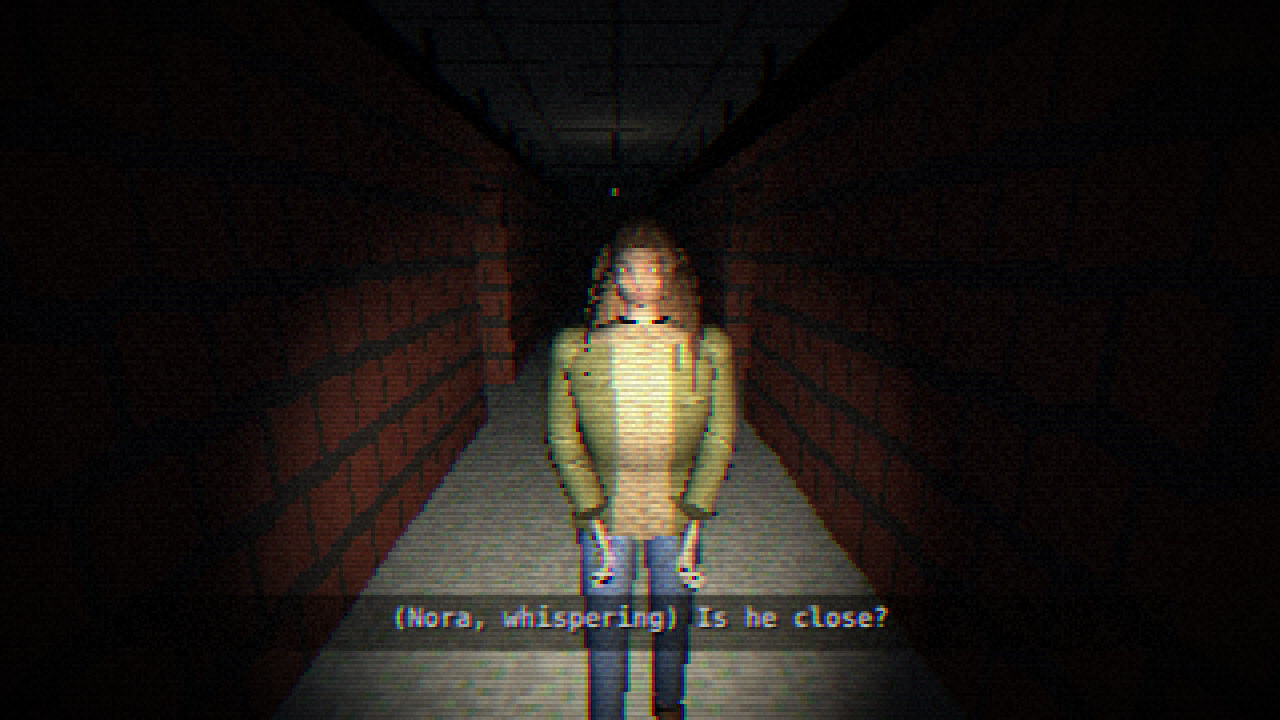
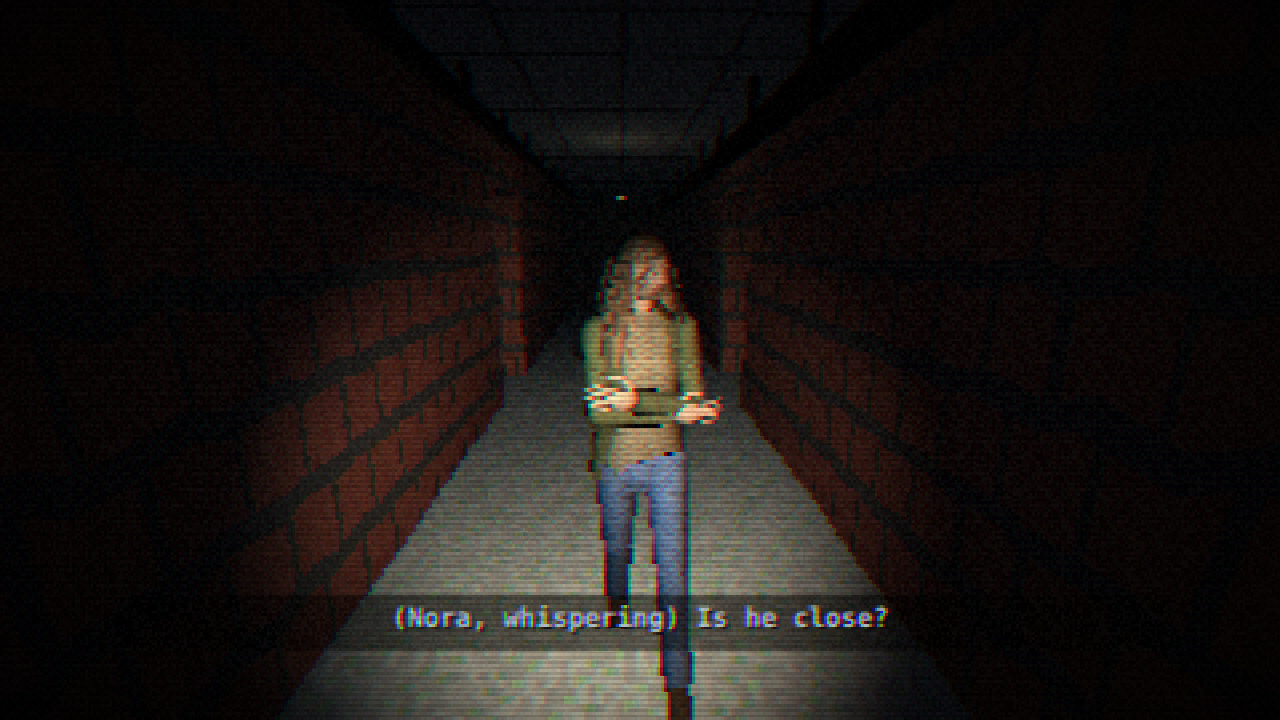
0.2.109: Nora on her feet, third pass: a jointed standing body
The owner found the second pass still boxy, its arms and hands wrong,
stiff, and short in the leg. Nora's standing figure is now built standing
rather than stood up from the table: a jointed body (hips, knees, ankles;
shoulders, elbows, wrists; neck, head) with an ordinary woman's
proportions, long legs, a waist, soft sloping shoulders, fuller jeans over
ankle boots, and the waxed jacket fitted and hanging open with its
collar. Her arms are placed by where her hands go (a two-bone reach) and
her poses live in src/props/noraPoses.js: following you mid-step and
hugging herself as she glances back; easy on one leg by the window. Her
hair hangs from her head as she holds it. The table figure is back to
its approved form. Stills nora_follow and ending_morning re-shot.

Claude-Session: https://claude.ai/code/session_01Kt2ajWcwzg7QhP3mDk3ZUu

diff --git a/src/props/noraStanding.js b/src/props/noraStanding.js
@@ -1,128 +1,176 @@
-// Nora Kane on her feet (0.5, part C; proposal still nora_follow, not in the
-// game until the owner approves it): freed from the table, she follows you
-// out. The same woman as on the table (nora.js: her waxed jacket, knitted
-// jumper, jeans and boots; noraHead.js, noraHair.js), stood up: her body is
-// built as it lies on the table and turned upright, her hair hangs to her
-// shoulders. Owner 2026-11-19, first pass: redo her. Not a mannequin
-// standing to attention: her shoulders slope and are rounded, she stoops a
-// little at the waist, afraid, her head a little down, her elbows in at her
-// sides and her hands held in front of her, and her colours darker so your
-// flashlight does not burn her jacket yellow. Her legs and arms swing from
-// her hips and shoulders (userData.limbs) so she can walk; `stride` (-1..1)
-// poses one step, `turn` turns her head, `hunch` (radians) stoops her.
-// Origin on the floor between her feet; she faces +z.
+// Nora Kane on her feet (0.5, part C; proposal stills nora_follow and
+// ending_morning, not in the game until the owner approves them). The same
+// woman as on the table (nora.js: her waxed jacket, knitted jumper, jeans and
+// boots; noraHead.js, noraHair.js), stood up. Owner 2026-11-19, second pass:
+// still boxy, her arms and hands wrong, stiff as a statue, her legs short.
+// So she is built standing, as a jointed body: an ordinary woman of 1.66 m,
+// long in the leg, a waist, soft sloping shoulders, the jacket fitted and
+// hanging open; her arms placed by where her hands go (hugging herself, one
+// hand on the other elbow, or loose at her side); her weight on one leg, or
+// mid-step, her head turned. The joints (userData.joints) let the game walk her.
+// Origin on the floor; she faces +z.
 import * as THREE from 'three';
 import { materialFor } from './parts.js';
 import { sweepGeometry, handGroup } from './sculpt.js';
 import { noraHead } from './noraHead.js';
 import { hairHanging } from './noraHair.js';
-import { noraTextures, torso, mesh } from './nora.js';
+import { noraTextures, mesh } from './nora.js';
+import { POSES } from './noraPoses.js';
 
 const v = (...p) => new THREE.Vector3(...p);
-const HIPS = 0.86; // metres from the floor to her hips: about 1.65 m to the top of her head
-const LEG_SWING = 0.35; // radians at a full stride
-const ARM_SWING = 0.12; // her arms held in: they hardly swing
+const THIGH = 0.41;
+const SHIN = 0.4;
+const ANKLE = 0.07; // ankle to sole: hip joints 0.88 m up when she stands straight
+const UPPER_ARM = 0.28;
+const FOREARM = 0.24;
+const SHOULDER = v(0.152, 0.435, -0.012); // in her torso (x: her left)
 // In your flashlight, not under his lamp: her colours darker so they hold
-// (her waxed jacket most, or it burns yellow; her face and hair, or they
-// burn white in the middle of your beam; her pale jumper next).
+// (her waxed jacket and pale jumper most; her skin and hair, or they burn white).
 const SHADE = 0.58;
-const FACE_SHADE = 0.4;
-const SHADE_OF = (tex) => new Map([[tex.jacket, 0.4], [tex.jumper, 0.36]]);
-const BEND = 1.0; // radians her forearms come up from hanging: her hands in front of her
+const SKIN_SHADE = 0.4;
+const SHADE_OF = (tex) => new Map([[tex.jacket, 0.4], [tex.jumper, 0.36], [tex.neck, SKIN_SHADE], [tex.hands, SKIN_SHADE]]);
 
-// Built as on the table (her front +y, her head -z, her feet +z), then stood
-// up by the group that holds it. A limb swings from `pivot` about the body's x.
-function limb(pivot, ...parts) {
-  const group = new THREE.Group();
-  group.position.copy(pivot);
-  group.add(...parts);
+const joint = (x, y, z, ...parts) => {
+  const group = new THREE.Group().add(...parts);
+  group.position.set(x, y, z);
   return group;
+};
+const ball = (r, texture) => mesh(new THREE.SphereGeometry(r, 10, 8), texture);
+
+// Down a limb from its joint: a sweep along -y; `sections` [side, front] at even steps.
+function segment(length, sections, texture, bulge = []) {
+  const points = sections.map((_, i) => v(0, (-length * i) / (sections.length - 1), bulge[i] ?? 0));
+  return mesh(sweepGeometry(points, sections, { radial: 10, steps: 3, front: [0, 0, 1] }), texture);
 }
 
-// A leg from the hip down, straight, the boot square to it (toes forward).
+// Her body from the hips up, in the torso's frame (its origin 4 cm above the hip joints).
+function torsoMeshes(tex) {
+  const spine = [[-0.07, -0.015], [0.02, -0.01], [0.12, -0.005], [0.22, 0.005], [0.3, 0.01], [0.38, -0.002], [0.45, -0.015], [0.5, -0.012]].map(([y, z]) => v(0, y, z));
+  const jumper = [[0.165, 0.112], [0.152, 0.102], [0.124, 0.086], [0.132, 0.095], [0.138, 0.106], [0.141, 0.09], [0.13, 0.068], [0.058, 0.05]];
+  const jacket = [[0.18, 0.126], [0.166, 0.116], [0.143, 0.104], [0.148, 0.11], [0.154, 0.12], [0.156, 0.1], [0.142, 0.078], [0.07, 0.06]];
+  const open = [1.9, 1.75, 1.5, 1.25, 1.05, 0.95, 1.0, 1.2]; // the jacket hangs open, wider towards its hem
+  const wool = (theta, u) => 1 + 0.02 * Math.sin(theta * 8 + u * 9) + 0.012 * Math.sin(theta * 13 - u * 17);
+  const hang = (theta, u) => 1 + 0.03 * Math.sin(theta * 6 + u * 7);
+  const hem = v(0, -0.1, -0.02); // the jacket comes down over her hips
+  return [
+    mesh(sweepGeometry(spine, jumper, { radial: 20, steps: 4, front: [0, 0, 1], shape: wool }), tex.jumper),
+    mesh(sweepGeometry([hem, ...spine.slice(1)], [[0.182, 0.13], ...jacket.slice(1)], { radial: 22, steps: 4, front: [0, 0, 1], gap: open, shape: hang }), tex.jacket, { side: THREE.DoubleSide }),
+    mesh(sweepGeometry([[-0.088, 0.455, 0.03], [-0.078, 0.488, -0.035], [0, 0.505, -0.068], [0.078, 0.488, -0.035], [0.088, 0.455, 0.03]], [0.016, 0.02, 0.02, 0.02, 0.016], { radial: 6, steps: 3, front: [0, 1, 0] }), tex.leather, { color: '#8a6a50' }), // the corduroy collar
+  ];
+}
+
+// From the hip joint down: a straight-leg jean over an ankle boot.
 function leg(tex, side) {
-  const x = side * 0.09;
-  const jeans = mesh(sweepGeometry([[0, 0, 0], [side * 0.005, 0.004, 0.41], [side * 0.01, -0.02, 0.76]], [[0.09, 0.08], 0.062, 0.05], { radial: 10, steps: 4, front: [0, 1, 0] }), tex.jeans);
-  const boot = mesh(sweepGeometry([[side * 0.01, -0.015, 0.74], [side * 0.01, -0.03, 0.81], [side * 0.01, 0.06, 0.84], [side * 0.01, 0.14, 0.82]], [0.052, 0.05, 0.045, 0.03], { radial: 8, steps: 3, front: [0, 0, 1] }), tex.boots);
-  return limb(v(x, 0.09, -0.01), jeans, boot);
+  const thigh = segment(THIGH, [[0.088, 0.091], [0.072, 0.075], [0.059, 0.061]], tex.jeans, [0, 0.008, 0]);
+  const shin = segment(SHIN, [[0.059, 0.061], [0.058, 0.061], [0.053, 0.055], [0.055, 0.057]], tex.jeans, [0, -0.006, 0, 0]);
+  const shaft = mesh(sweepGeometry([v(0, 0.06, -0.008), v(0, -0.045, -0.014)], [[0.043, 0.048], [0.042, 0.05]], { radial: 10, steps: 2, front: [0, 0, 1] }), tex.boots);
+  const foot = mesh(sweepGeometry([v(0, -0.044, -0.06), v(0, -0.048, 0.03), v(0, -0.048, 0.11), v(0, -0.046, 0.155)], [[0.04, 0.026], [0.044, 0.024], [0.04, 0.022], [0.028, 0.018]], { radial: 10, steps: 3, front: [0, 1, 0] }), tex.boots);
+  const ankle = joint(0, -SHIN, 0, shaft, foot);
+  const knee = joint(0, -THIGH, 0, ball(0.059, tex.jeans), shin, ankle);
+  const hip = joint(side * 0.085, 0, 0, thigh, knee);
+  return { hip, knee, ankle };
 }
 
-// An arm from the shoulder in its sleeve, the elbow in at her side, the
-// forearm come up and in so her hand is held in front of her stomach.
+// From the shoulder: a jacket sleeve to the elbow and on to the cuff, a hand.
 function arm(tex, side) {
-  const shoulder = v(side * 0.165, 0.1, -0.49);
-  const elbow = v(side * 0.035, -0.01, 0.245);
-  const across = v(-side * 0.35, Math.sin(BEND) * 0.9, Math.cos(BEND)).normalize();
-  const wrist = elbow.clone().addScaledVector(across, 0.22);
-  const sleeve = mesh(sweepGeometry([v(0, 0, 0), elbow, wrist], [0.06, 0.052, 0.045], { radial: 10, steps: 5, front: [0, 1, 0] }), tex.jacket);
-  const hand = handGroup(materialFor(tex.hands), { thumb: -side, curl: 0.7, spread: 0.03, length: 0.85, width: 0.85 });
-  hand.position.copy(wrist).addScaledVector(across, 0.01);
-  hand.quaternion.setFromUnitVectors(v(0, 0, 1), across);
-  hand.rotateZ(side * Math.PI / 2); // the palm in, towards the other hand
-  return limb(shoulder, sleeve, hand);
+  const upper = segment(UPPER_ARM, [[0.05, 0.048], [0.046, 0.045], [0.044, 0.042]], tex.jacket);
+  const fore = segment(FOREARM, [[0.043, 0.041], [0.04, 0.038], [0.041, 0.037]], tex.jacket);
+  const hand = new THREE.Group();
+  const fingers = handGroup(materialFor(tex.hands), { thumb: -side, curl: 0.45, spread: 0.05, length: 0.85, width: 0.85 });
+  fingers.rotation.set(Math.PI / 2, 0, Math.PI); // fingers down the forearm (-y), the palm to +z
+  fingers.position.y = 0.012;
+  hand.add(fingers);
+  const wrist = joint(0, -FOREARM, 0, hand);
+  const elbow = joint(0, -UPPER_ARM, 0, ball(0.044, tex.jacket), fore, wrist);
+  const cap = ball(0.052, tex.jacket); // the round of her shoulder, a little in from the joint
+  cap.position.set(-side * 0.008, -0.006, 0);
+  const shoulder = joint(side * SHOULDER.x, SHOULDER.y, SHOULDER.z, cap, upper, elbow);
+  return { shoulder, elbow, hand };
 }
 
-// Her shoulders: the jacket rounded over the top of her body and over each
-// shoulder, so her body does not end square at the neck.
-function shoulders(tex) {
-  const yoke = mesh(new THREE.SphereGeometry(1, 16, 8), tex.jacket);
-  yoke.scale.set(0.19, 0.085, 0.075);
-  yoke.position.set(0, 0.085, -0.47); // tucked in behind her jumper's front, so it rounds only her top and back
-  const caps = [-1, 1].map((side) => {
-    const cap = mesh(new THREE.SphereGeometry(0.066, 10, 8), tex.jacket);
-    cap.position.set(side * 0.162, 0.1, -0.485);
-    return cap;
-  });
-  return [yoke, ...caps];
+// Turns a joint (in its parent's frame) so its -y runs along `along`, its +z towards `front`.
+const basis = new THREE.Matrix4();
+function aim(group, along, front) {
+  const y = along.clone().normalize().negate();
+  const z = front.clone().addScaledVector(y, -front.dot(y));
+  if (z.lengthSq() < 1e-8) z.set(0, 0, 1).addScaledVector(y, -y.z);
+  z.normalize();
+  group.quaternion.setFromRotationMatrix(basis.makeBasis(new THREE.Vector3().crossVectors(y, z), y, z));
+}
+const into = (group, direction) => direction.clone().applyQuaternion(group.quaternion.clone().invert());
+
+// An arm reaching its wrist to `wrist` (torso frame), the elbow out towards
+// `elbow`, the palm facing `palm`: a two-bone reach.
+function reach(arm, { wrist, elbow, palm }) {
+  const from = arm.shoulder.position;
+  const to = v(...wrist).sub(from);
+  const d = Math.min(to.length(), UPPER_ARM + FOREARM - 0.002);
+  const u = to.normalize();
+  const bend = Math.acos(Math.min(1, Math.max(-1, (UPPER_ARM ** 2 + d ** 2 - FOREARM ** 2) / (2 * UPPER_ARM * d))));
+  const pole = v(...elbow);
+  const out = pole.addScaledVector(u, -pole.dot(u)).normalize();
+  const upper = u.clone().multiplyScalar(Math.cos(bend)).addScaledVector(out, Math.sin(bend));
+  const fore = u.clone().multiplyScalar(d).sub(upper.clone().multiplyScalar(UPPER_ARM));
+  aim(arm.shoulder, upper, v(0, 0, 1));
+  aim(arm.elbow, into(arm.shoulder, fore), into(arm.shoulder, v(0, 0, 1)));
+  const both = arm.shoulder.quaternion.clone().multiply(arm.elbow.quaternion);
+  aim(arm.hand, v(0, -1, 0), v(...palm).applyQuaternion(both.invert()));
 }
 
-// Her neck straight up out of her jumper into her head. (The table's ring
-// collar is left off: stood up, it showed edge-on as a black bar.)
-function neck(tex) {
-  const path = [v(0, 0.1, -0.52), v(0, 0.104, -0.585), v(0, 0.108, -0.64)];
-  return [mesh(sweepGeometry(path, [[0.05, 0.045], 0.044, 0.042], { radial: 16, steps: 4, front: [0, 1, 0] }), tex.neck)];
+function bendLeg({ hip, knee, ankle }, side, { lift = 0, out = 0.03, bend = 0.02, toe = 0 }) {
+  hip.rotation.set(-lift, 0, side * out);
+  knee.rotation.x = bend;
+  ankle.rotation.x = lift - bend + toe; // the foot level with the floor
 }
 
-function noraStanding(t, { stride = 0, turn = 0, hunch = 0.14, nod = 0.08 } = {}) {
+// Puts her in a pose (noraPoses.js): her legs, then her hips at the height
+// the longer leg holds them, her body above them, her arms, her head.
+export function pose(nora, name) {
+  const p = POSES[name];
+  const { pelvis, torso, legs, arms, neck, head } = nora.userData.joints;
+  bendLeg(legs.right, -1, p.right);
+  bendLeg(legs.left, 1, p.left);
+  const height = (l) => THIGH * Math.cos(l.lift ?? 0) + SHIN * Math.cos((l.lift ?? 0) - (l.bend ?? 0));
+  pelvis.position.y = Math.max(height(p.right), height(p.left)) + ANKLE;
+  pelvis.rotation.set(0, p.turn ?? 0, p.hips ?? 0);
+  torso.rotation.set(p.lean ?? 0.06, p.twist ?? 0, p.sway ?? 0);
+  reach(arms.right, p.rightArm);
+  reach(arms.left, p.leftArm);
+  neck.rotation.x = 0.06;
+  head.rotation.set(p.nod ?? 0.1, p.look ?? 0, p.tilt ?? 0, 'YXZ');
+}
+
+function noraStanding(t, { pose: name = 'stand' } = {}) {
   const tex = noraTextures();
-  const legs = [leg(tex, -1), leg(tex, 1)];
-  const arms = [arm(tex, -1), arm(tex, 1)];
+  const legs = { right: leg(tex, -1), left: leg(tex, 1) };
+  const arms = { right: arm(tex, -1), left: arm(tex, 1) };
   const head = noraHead();
-  head.position.set(0, 0.11, -0.7);
-  const down = new THREE.Quaternion().setFromAxisAngle(v(1, 0, 0), -Math.PI / 2 + nod); // her chin a little down
-  head.quaternion.setFromAxisAngle(v(0, 0, 1), turn).multiply(down);
-  // All of her above the hips stoops forward from them; her hair still hangs straight down.
-  const hair = hairHanging(head, v(0, Math.sin(hunch), Math.cos(hunch)));
-  const upper = new THREE.Group().add(...torso(tex, { standing: true }), ...shoulders(tex), ...neck(tex), ...arms, head, ...hair);
-  upper.position.set(0, 0.1, 0);
-  upper.children.forEach((child) => child.position.y -= 0.1); // pivot at her hips
-  upper.rotation.x = hunch;
-  const body = new THREE.Group().add(upper, ...legs);
-  body.rotation.x = Math.PI / 2; // stood up: her head up, her front to +z
-  body.position.set(0, HIPS, -0.1);
-  const nora = new THREE.Group().add(body);
+  const neckMesh = segment(0.1, [[0.046, 0.044], [0.043, 0.041], [0.041, 0.039]], tex.neck, [0, 0.006, 0.012]);
+  neckMesh.rotation.x = Math.PI; // up from the jumper
+  head.position.set(0, 0.155, 0.02);
+  const neck = joint(0, 0.48, -0.012, neckMesh, head);
+  const torso = joint(0, 0.04, 0, ...torsoMeshes(tex), arms.right.shoulder, arms.left.shoulder, neck);
+  const hips = mesh(sweepGeometry([v(0, 0.02, -0.01), v(0, -0.04, -0.016), v(0, -0.09, -0.008), v(0, -0.125, 0)], [[0.158, 0.108], [0.166, 0.114], [0.148, 0.102], [0.1, 0.075]], { radial: 16, steps: 3, front: [0, 0, 1] }), tex.jeans);
+  const pelvis = joint(0, 0.88, 0, hips, legs.right.hip, legs.left.hip, torso);
+  const nora = new THREE.Group().add(pelvis);
+  nora.userData.joints = { pelvis, torso, legs, arms, neck, head };
+  pose(nora, name);
+  // Her hair hangs from her head as she holds it: built in her head's frame, gravity's way.
+  nora.updateMatrixWorld(true);
+  const down = v(0, -1, 0).applyQuaternion(head.getWorldQuaternion(new THREE.Quaternion()).invert());
+  const still = { userData: head.userData, position: v(0, 0, 0), matrix: new THREE.Matrix4(), updateMatrix() {} };
+  const hair = hairHanging(still, down);
+  head.add(...hair);
   const shades = SHADE_OF(tex);
-  const face = new Set(hair); // and her skin: her head, her throat, her hands
-  head.traverse((o) => o.isMesh && face.add(o));
-  nora.traverse((o) => o.isMesh && (o.material.map === tex.neck || o.material.map === tex.hands) && face.add(o));
+  const skin = new Set(hair);
+  head.traverse((o) => o.isMesh && skin.add(o));
   nora.traverse((o) => {
     if (!o.isMesh) return;
-    const shade = face.has(o) ? FACE_SHADE : shades.get(o.material.map) ?? SHADE;
+    const shade = skin.has(o) ? SKIN_SHADE : shades.get(o.material.map) ?? SHADE;
     o.material = o.material.clone();
     o.material.color.multiplyScalar(shade);
   });
-  nora.userData.limbs = { legs, arms };
-  pose(nora, stride);
   return nora;
-}
-
-// One step of her walk: her right leg forward and her left arm (stride > 0), or the other way.
-export function pose(nora, stride) {
-  const { legs, arms } = nora.userData.limbs;
-  legs[0].rotation.x = -stride * LEG_SWING;
-  legs[1].rotation.x = stride * LEG_SWING;
-  arms[0].rotation.x = stride * ARM_SWING;
-  arms[1].rotation.x = -stride * ARM_SWING;
 }
 
 export const NORA_STANDING = { noraStanding };

diff --git a/src/props/noraPoses.js b/src/props/noraPoses.js
@@ -1,0 +1,51 @@
+// Nora's poses on her feet (noraStanding.js). Owner 2026-11-19: a real
+// stance, not a statue: her weight on one leg, or mid-step; her arms by where
+// her hands go (hugging herself, cold and afraid; one hand on the other arm;
+// or loose at her side); her head turned.
+// Legs (right, left): lift (the hip, + forward), out (from the middle),
+//   bend (the knee), toe (the foot's tip up, the heel off the floor < 0).
+// Body: hips (her pelvis tilts: < 0 her right hip up, her weight on it),
+//   sway (her shoulders tilt the other way), lean (stooped forward), twist,
+//   turn (radians). Head: look (+ to her left), nod (+ down), tilt.
+// Arms (rightArm, leftArm), in her torso's frame (metres from 4 cm above her
+//   hip joints; x her left, z forward): wrist (where it goes), elbow (the way
+//   the elbow points), palm (the way the palm faces).
+
+// Loose at her side, the elbow a little bent, the palm to her thigh.
+const loose = (side) => ({ wrist: [side * 0.198, -0.03, 0.05], elbow: [side * 0.2, 0, -1], palm: [-side, 0, -0.3] });
+
+// Hugging herself: each forearm across her middle, the hand round the other arm.
+const hugging = {
+  rightArm: { wrist: [0.07, 0.19, 0.17], elbow: [-0.45, -1, 0.3], palm: [0.2, 0, -1] },
+  leftArm: { wrist: [-0.07, 0.26, 0.2], elbow: [0.45, -1, 0.35], palm: [-0.2, 0, -1] },
+};
+
+export const POSES = {
+  // Standing, her weight on her right leg, her left knee easy; her left hand on her right arm.
+  stand: {
+    right: { lift: 0, out: 0.035, bend: 0.0 },
+    left: { lift: 0.1, out: 0.11, bend: 0.2, toe: 0.05 },
+    hips: -0.045, sway: 0.035, lean: 0.05, twist: 0.08,
+    rightArm: loose(-1),
+    leftArm: { wrist: [-0.105, 0.135, 0.14], elbow: [1, -0.7, 0.2], palm: [-1, 0, -0.4] },
+    look: -0.15, nod: 0.12, tilt: 0.05,
+  },
+  // Following you, mid-step (her left foot forward), hugging herself, stooped,
+  // her head turned to look back past her shoulder for him.
+  follow: {
+    right: { lift: -0.2, out: 0.03, bend: 0.28, toe: 0.22 },
+    left: { lift: 0.3, out: 0.03, bend: 0.08 },
+    hips: 0.02, sway: -0.02, lean: 0.12, twist: 0.2,
+    ...hugging,
+    look: 0.45, nod: 0.05, tilt: -0.06,
+  },
+  // By the window in the morning, her weight on her left leg, one arm across her.
+  window: {
+    right: { lift: 0.08, out: 0.1, bend: 0.18, toe: 0.04 },
+    left: { lift: 0, out: 0.035, bend: 0.0 },
+    hips: 0.045, sway: -0.035, lean: 0.03, twist: -0.05,
+    rightArm: { wrist: [0.105, 0.135, 0.14], elbow: [-1, -0.7, 0.2], palm: [1, 0, -0.4] },
+    leftArm: loose(1),
+    look: 0.1, nod: -0.02, tilt: -0.04,
+  },
+};

diff --git a/src/props/nora.js b/src/props/nora.js
@@ -73,18 +73,14 @@ export function mesh(geometry, texture, options) {
 const SPINE = [[0, 0.1, 0.0], [0, 0.1, -0.19], [0, 0.128, -0.32], [0, 0.128, -0.42], [0, 0.112, -0.52]];
 const BODY = [[0.172, 0.1], [0.138, 0.088], [0.152, 0.108], [0.166, 0.104], [0.17, 0.072]];
 
-// On her feet (noraStanding.js) the jacket hangs; on the table its sides fall to the table.
-export function torso(tex, { standing = false } = {}) {
+function torso(tex) {
   const rucked = (theta, u) => 1 + 0.025 * Math.sin(theta * 8 + u * 9) + 0.015 * Math.sin(theta * 13 - u * 17); // the wool pulled about
-  // Standing, the jumper goes on up and in round her neck, its shoulders sloping (ended flat, it showed as a dark bar).
-  const [spine, body] = standing ? [[...SPINE, [0, 0.106, -0.565]], [...BODY, [0.07, 0.052]]] : [SPINE, BODY];
-  const jumper = mesh(sweepGeometry(spine, body, { radial: 20, steps: 4, front: [0, 1, 0], shape: rucked }), tex.jumper);
-  const open = standing ? [0.9, 0.85, 0.8, 0.75, 0.7] : [1.5, 1.3, 1.1, 0.95, 0.8]; // the jacket open over her front
-  const fallen = standing ? 0 : 0.18;
-  const sides = (theta, u) => (1 + fallen * Math.max(0, -Math.sin(theta)) ** 2) * (1 + 0.035 * Math.sin(theta * 6 + u * 7));
+  const jumper = mesh(sweepGeometry(SPINE, BODY, { radial: 20, steps: 4, front: [0, 1, 0], shape: rucked }), tex.jumper);
+  const open = [1.5, 1.3, 1.1, 0.95, 0.8]; // the jacket open over her front, its sides fallen to the table
+  const sides = (theta, u) => (1 + 0.18 * Math.max(0, -Math.sin(theta)) ** 2) * (1 + 0.035 * Math.sin(theta * 6 + u * 7));
   const jacket = mesh(sweepGeometry(SPINE, BODY.map(([x, y]) => [x * 1.1, y * 1.12]), { radial: 22, steps: 4, front: [0, 1, 0], gap: open, shape: sides }), tex.jacket, { side: THREE.DoubleSide });
   const collar = mesh(sweepGeometry([[-0.1, 0.13, -0.52], [0, 0.07, -0.56], [0.1, 0.13, -0.52]], [0.02, 0.022, 0.02], { radial: 6, steps: 3 }), tex.leather, { color: '#8a6a50' });
-  return standing ? [jumper, jacket] : [jumper, jacket, collar]; // standing, her shoulders cover the collar (noraStanding.js)
+  return [jumper, jacket, collar];
 }
 
 // Her arms down her sides in the jacket's sleeves, fists clenched in the cuffs.

diff --git a/src/mockups/finaleStills.js b/src/mockups/finaleStills.js
@@ -131,8 +131,8 @@ export const FINALE_STILLS = {
   nora_follow: {
     level: basement,
     setup({ world }) {
-      put(world, 'noraStanding', at(world, 10.7, 7.95), { turn: 90, options: { stride: 0.35, turn: 0.15 } });
-      look(world, at(world, 11.78, 8.0), at(world, 10.7, 7.95), 1.6, 1.3);
+      put(world, 'noraStanding', at(world, 10.7, 7.95), { turn: 90, options: { pose: 'follow' } });
+      look(world, at(world, 12.15, 8.0), at(world, 10.7, 7.95), 1.6, 1.2);
     },
     ui(ctx) {
       subtitle(ctx, '(Nora, whispering) Is he close?');
@@ -222,8 +222,8 @@ export const FINALE_STILLS = {
       world.scene.add(sun, sun.target);
       light(world, '#ffd8a0', 2.5, 4, [4.4, 2.6], 1.7);
       light(world, '#ffe0b8', 9, 3, [3.3, 4.3], 1.7); // the morning back off the walls, on her face
-      put(world, 'noraStanding', [4.15, 3.55], { turn: -48, options: { turn: 0.1 } });
-      look(world, [2.0, 5.5], [4.3, 2.7], 1.6, 1.5);
+      put(world, 'noraStanding', [4.15, 3.55], { turn: -48, options: { pose: 'window' } });
+      look(world, [2.75, 4.95], [4.25, 3.2], 1.6, 1.42);
     },
     ui(ctx) {
       ending(ctx, 'Morning comes in at the window. I have never seen it from here.');

diff --git a/CHANGELOG.md b/CHANGELOG.md
@@ -2,6 +2,7 @@
 
 Newest first. One line per change.
 
+- 0.2.109 — Nora on her feet, third pass (proposal stills, not in the game yet): built standing as a jointed body with a woman's proportions (long legs, a waist, soft shoulders, a fitted open jacket); hugging herself mid-step as she follows you and glances back; easy on one leg by the window in the morning.
 - 0.2.108 — Nora on her feet, second pass (proposal still, not in the game yet): rounded, sloping shoulders, a slight stoop, elbows in and hands held in front of her, her jumper up round her neck, and darker colours so your flashlight no longer burns her jacket yellow and her face white. The cabinet's lock will be opened by ear, from the gap in Edith's tune (owner's pick).
 - 0.2.107 — Part C proposal stills (not in the game yet): the theatre's door, locked, its glass showing the lamp over the table; Nora on her feet behind you (a standing figure of her); the cabinet's lock; the stairs up with Dr. Venn at their foot; the three endings' key moments with their lines; an end card with "Endings found"; your room's last change. The owner's four picks for part C are in the design notes.
 - 0.2.106 — The morgue: pull out a drawer (its door swings open, its tray slides out, it screeches, and Dr. Venn hears it 8 m off) and it says what is in it: nothing, a child's name tag, Sam's wet tag, or, in Tommy's (2 FEB), page four of your file. The 12 MAY drawer won't come for you; once you've pulled another, the morgue goes quiet and it rolls out on its own, Sister M. under a sheet. Dr. Venn's theatre notes lie on a side table. A bot now plays through the whole basement without ever being heard or caught.

diff --git a/docs/DESIGN_0.5.md b/docs/DESIGN_0.5.md
@@ -446,4 +446,15 @@ last change: the bed made, your wooden horse on the pillow).
   afraid, her elbows in and her hands held in front of her, her head a little down; her jumper goes up
   round her neck (its flat top showed as a black bar); her colours darker in your flashlight, her
   jacket olive as under his lamp and her face, hair and hands no longer burnt white.
+- **Second pass, owner (2026-11-19): her body or pose still off: all four** of: too boxy, not a woman;
+  her arms and hands wrong; too stiff, statue-like; her proportions (short legs, long wide body).
+  Third pass: she is no longer the table figure stood up. `src/props/noraStanding.js` builds her
+  standing as a jointed body (hips, knees, ankles; shoulders, elbows, wrists; neck, head) with an
+  ordinary woman's proportions: 1.66 m, long in the leg (hip joints at 0.88 m), a waist, soft
+  sloping shoulders, fuller straight-leg jeans over ankle boots, the waxed jacket fitted and hanging
+  open over the jumper, its corduroy collar. Her arms are placed by where her hands go (a two-bone
+  reach), and her poses are in `src/props/noraPoses.js`: `follow` (mid-step towards you, hugging
+  herself, stooped, glancing back past her shoulder), `window` (her weight on one leg, one arm across
+  her, the other loose), `stand`. Her hair hangs from her head as she holds it. The joints will
+  walk her in the game.
 
